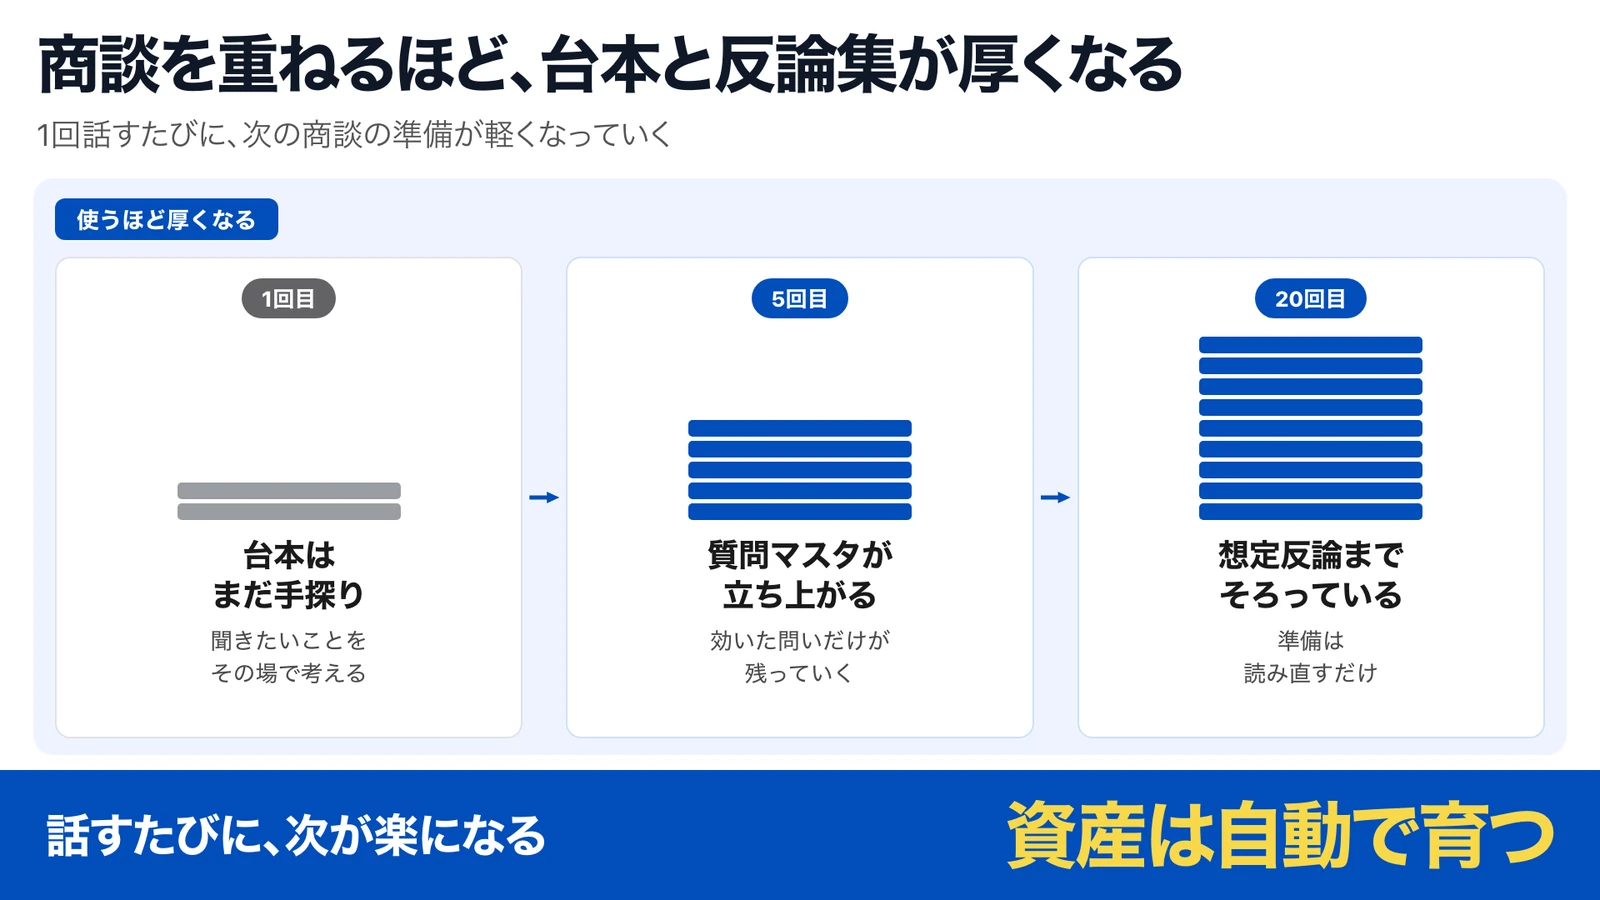
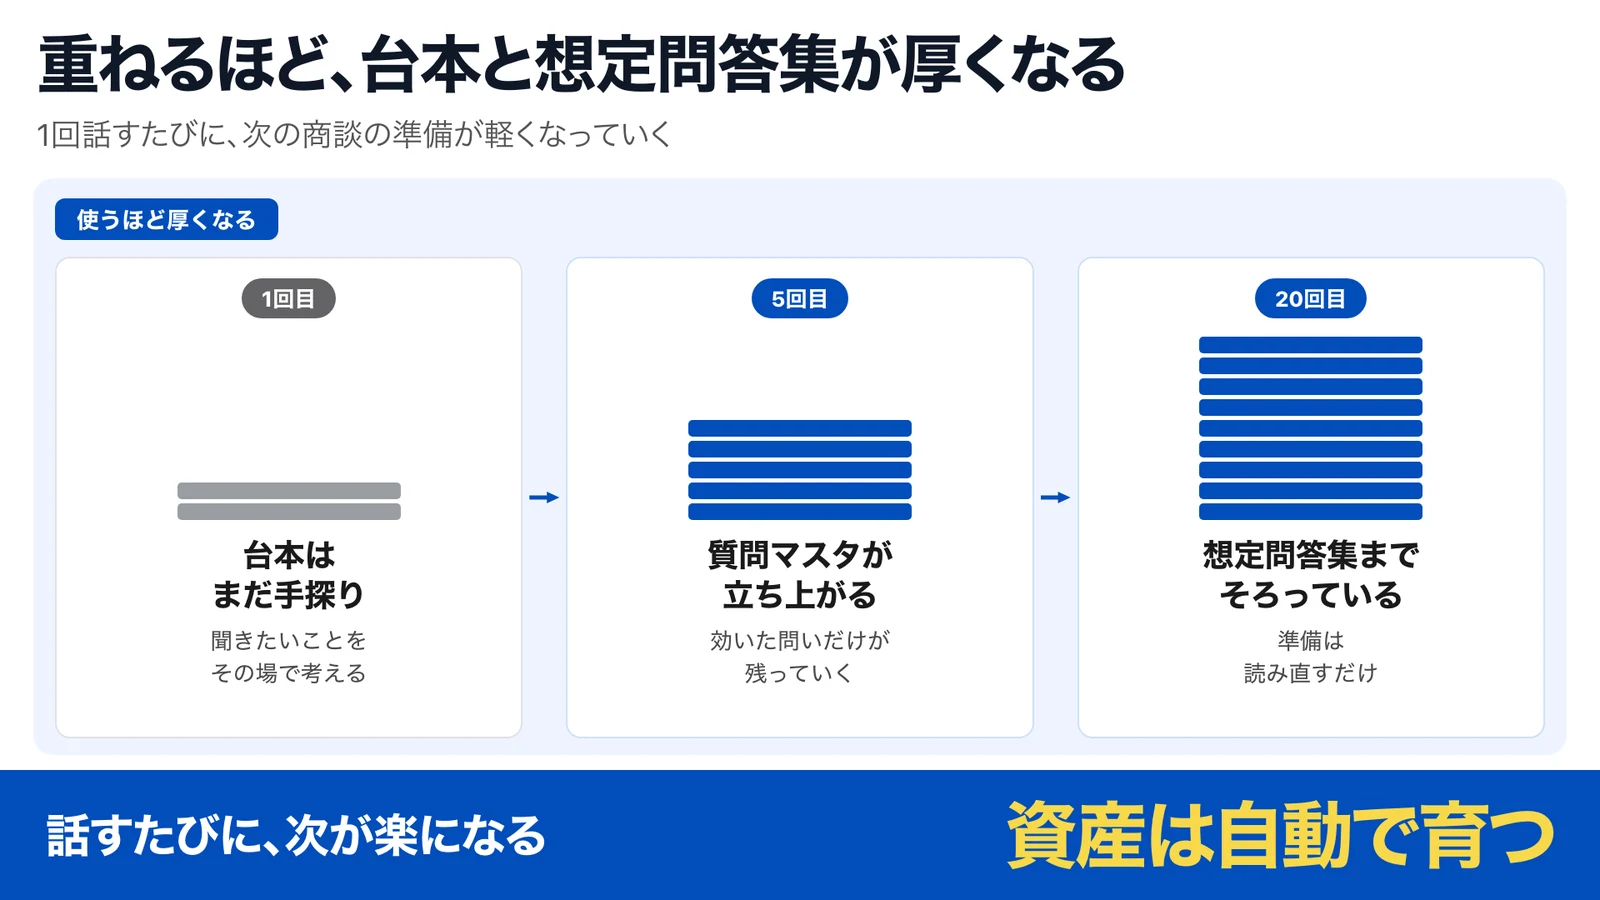
fix: 事例08 の「競合商談」「想定反論」を坂本指定の言い方に直す（自社の商談・想定問答集）
- 本文: 「競合19商談の分析を通した台本3本」→「自社の商談19件の…」／数字ラベル「分析を通した競合商談」→「分析を通した自社の商談」
- 図解3枚（冒頭T3・中盤M・締めS）を「想定問答集」で再生成し、LP と デモ見せ方PJ の本番フォルダを同じ文言に揃えた（文言の正本 zukai_t3/ms/plan.json も更新・機械ゲート違反0）
- 坂本 2026-09-08「競合商談はニュアンス的にまずい。動画・画像・LP 全部 自社の商談に」

Changed region(s): [[0.0, 0.0311, 0.75, 0.1244], [0.75, 0.5911, 0.9062, 0.6533]]

diff --git a/cases/case-08.html b/cases/case-08.html
@@ -291,7 +291,7 @@ p.csub{max-width:1100px;margin:-6px auto 16px;font-size:.95rem;color:var(--tx2);
 <body>
 <header class="hd"><div class="hd-in"><a href="../index.html" class="hd-logo"><i></i>AI業務改革<span>パートナー</span></a><nav class="hd-nav"><a href="../index.html#cases">事例一覧</a><a href="../index.html#systems">動いている仕組み</a><a href="https://tally.so/r/QKdxx1" class="hd-cta" target="_blank" rel="noopener">無料で相談する</a></nav></div></header><div class="progress" id="pg"></div>
 <section class="chero"><div class="w"><div class="crumb"><a href="../index.html">事例一覧</a><span>›</span><span class="cur">CASE 08</span></div>
-<div class="chero-grid"><div><div class="bds"><span class="bd bd-cat">営業・顧客対応</span><span class="bd bd-video">デモあり</span></div><h1 class=""><span class="seg">「商談終わった」の</span><span class="seg">一言で、</span><br class="hb"><span class="seg">営業台本と資料が育つ</span></h1><p class="lead">議事録の取り込み、分析、営業台本の更新、スライドへの転用を1本の流れで自動処理する。人は各段階で承認するだけ。</p><div class="kpis"><div class="kp"><small>起動の合図</small><b class="l"><span class="nw">一言</span></b></div><div class="kp"><small>常備している台本</small><b class="xl"><span class="nw">3本</span></b></div><div class="kp"><small>分析を通した競合商談</small><b class="xl"><span class="nw">19件</span></b></div></div></div>
+<div class="chero-grid"><div><div class="bds"><span class="bd bd-cat">営業・顧客対応</span><span class="bd bd-video">デモあり</span></div><h1 class=""><span class="seg">「商談終わった」の</span><span class="seg">一言で、</span><br class="hb"><span class="seg">営業台本と資料が育つ</span></h1><p class="lead">議事録の取り込み、分析、営業台本の更新、スライドへの転用を1本の流れで自動処理する。人は各段階で承認するだけ。</p><div class="kpis"><div class="kp"><small>起動の合図</small><b class="l"><span class="nw">一言</span></b></div><div class="kp"><small>常備している台本</small><b class="xl"><span class="nw">3本</span></b></div><div class="kp"><small>分析を通した自社の商談</small><b class="xl"><span class="nw">19件</span></b></div></div></div>
 <div class="chero-vis fi"><div class="fr"><img src="media/case-08_ill.webp" alt="商談のたびに営業資産が育つ流れのイメージ" width="1600" height="900"></div></div></div></div></section>
 <section class="csec" id="problem"><div class="w"><div class="chd"><span class="tag tag-r">課題</span><h2>商談の学びが「その場限り」で流れていた</h2></div><div class="quote">商談後の事務作業が溜まる</div><p class="csub" style="margin-top:0">議事録整理・振り返り・台本や資料への反映は価値ある作業だが、商談が続くと後回しになる。営業トークも属人の勘のままでは再現できない。</p></div></section>
 <section class="csec tight" id="change"><div class="w"><div class="chd"><span class="tag tag-b">変えたこと</span><h2>「商談終わった」の一言で、分析から資料の更新まで動く</h2></div><p class="csub">議事録の取り込み、分析、営業台本と質問集の更新、スライドへの転用までを一本の流れで自動処理する。各段階で人は承認だけを挟む。</p><div class="tools"><small>使った道具</small><span>Claude Code</span></div>
@@ -300,7 +300,7 @@ p.csub{max-width:1100px;margin:-6px auto 16px;font-size:.95rem;color:var(--tx2);
 <div class="vidwrap fi"><video autoplay muted loop playsinline preload="metadata" poster="media/case-08_demo_poster.jpg" controls aria-label="商談のたびに営業資産が育つ流れのデモ（60秒・架空データ）"><source src="media/case-08_demo.webm" type="video/webm"><source src="media/case-08_demo.mp4" type="video/mp4"></video><button class="vsnd" type="button" aria-label="音声つきで先頭から再生する">🔊 音声つきで見る（60秒）</button>
 <div class="vid-cap"><b>60秒・字幕とナレーションつき（自動再生中は無音。ボタンで音声つきに）</b><span>架空データで再現。実際の導入では御社のツールに合わせて組みます。</span></div></div></div></section>
 <section class="csec" id="result"><div class="w"><div class="chd"><span class="tag tag-g">結果</span><h2>商談のたびに台本と資料が強くなる</h2></div>
-<div class="nums fi"><div class="num big"><small>商談後の分析→台本→資料</small><b class="m"><span class="nw">一言で自動</span></b></div><div class="num"><small>常備している台本</small><b class="xl"><span class="nw">3本</span></b></div><div class="num"><small>分析を通した競合商談</small><b class="xl"><span class="nw">19件</span></b></div></div><p class="csub" style="margin-top:0">競合19商談の分析を通した台本3本が常備され、商談のたびに進化する。事務作業は「やるかどうか」の意思決定から消えた。</p></div></section>
+<div class="nums fi"><div class="num big"><small>商談後の分析→台本→資料</small><b class="m"><span class="nw">一言で自動</span></b></div><div class="num"><small>常備している台本</small><b class="xl"><span class="nw">3本</span></b></div><div class="num"><small>分析を通した自社の商談</small><b class="xl"><span class="nw">19件</span></b></div></div><p class="csub" style="margin-top:0">自社の商談19件の分析を通した台本3本が常備され、商談のたびに進化する。事務作業は「やるかどうか」の意思決定から消えた。</p></div></section>
 <section class="csec tight" id="system"><div class="w"><div class="chd"><span class="tag tag-g">仕組み</span><h2>入口から出口、次の行動まで一本の線で</h2></div>
 <div class="in fi"><div class="fig"><img class="zoomable" src="media/case-08_zukai_s.webp" alt="商談のたびに営業資産が育つ流れ：入口→AI→出口→次の行動の流れと成果" width="1600" height="900" data-cap="入口から出口、次の行動まで"><div class="fig-cap"><span>図解を押すと拡大</span><span>入口から出口、次の行動まで</span></div></div></div></div></section>
 
